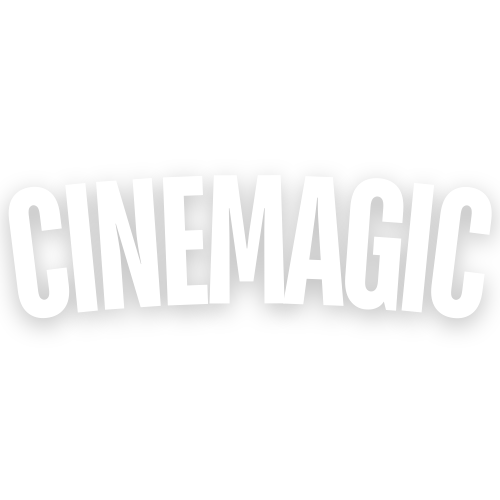
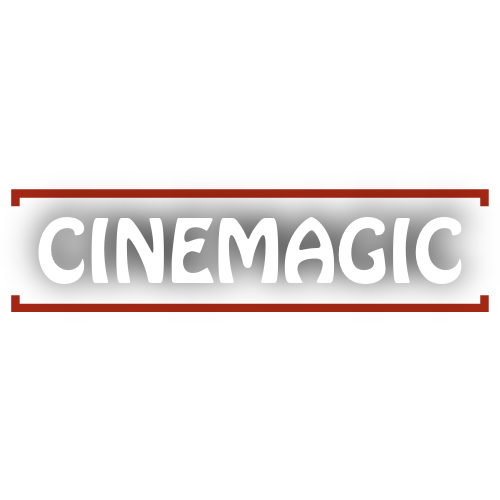
created secondary componet, fetched different movie data and created horizontal scrollable cards

Changed region(s): [[0.0, 0.36, 0.99, 0.66]]

diff --git a/src/components/VideoTitle.js b/src/components/VideoTitle.js
@@ -4,7 +4,7 @@ const VideoTitle = ({ title, overview }) => {
   const [string, setString] = useState(false);
 
   return (
-    <div className="px-24 space-y-4  w-screen  aspect-video   absolute text-white bg-gradient-to-tr from-black flex flex-col justify-center">
+    <div className=" space-y-4 pl-24 w-full aspect-video absolute text-white bg-gradient-to-tr from-black flex flex-col justify-center">
       <h1 className="text-4xl  font-bold">{title}</h1>
       <p className="w-4/12">
         {!string ? overview.slice(1, 150) + "..." : overview}
@@ -14,15 +14,22 @@ const VideoTitle = ({ title, overview }) => {
             setString(!string);
           }}
         >
-          {string ? 'Show Less' : 'More'}
+          {string ? "Show Less" : "More"}
         </button>
       </p>
-      <div className="">
-        <button className="bg-white py-3 px-10 text-black font-medium rounded hover:bg-opacity-90">
-          {`>`} Play
+      <div className="flex">
+        <button className="bg-white py-4 px-8 text-black font-medium rounded hover:bg-opacity-90">
+          <img
+            className="h-5 inline-block"
+            src={`${process.env.PUBLIC_URL}/play.png`}
+          />{" "}
+          Play
         </button>
-        <button className="bg-gray-500 py-3 px-10 font-medium rounded ml-4 hover:bg-opacity-95">
-          ! More info
+        <button className="bg-gray-500 py-4 px-4 font-medium rounded ml-4 flex items-center hover:bg-opacity-95">
+          <span className="bg-white text-black w-8 h-8 flex font-bold items-center justify-center rounded-full  mr-2">
+            i
+          </span>
+          More info
         </button>
       </div>
     </div>

diff --git a/src/components/SecondaryContainer.js b/src/components/SecondaryContainer.js
@@ -1,9 +1,24 @@
-import React from 'react'
+import React from "react";
+import MovieList from "./MovieList";
+import { useSelector } from "react-redux";
 
 const SecondaryContainer = () => {
+  const moviesData = useSelector((store) => store.movies);
+  const tvSeriesData = useSelector((store) => store.tvSeries);
   return (
-    <div>SecondaryContainer</div>
-  )
-}
+    <div className="bg-black">
+      <div className="-mt-52 pl-12 relative z-20">
+        <MovieList title={"Now Playing"} data={moviesData.nowPlaying} />
+        <MovieList title={"Popular"} data={moviesData.popular} />
+        <MovieList title={"Upcoming Movies"} data={moviesData.upcomingMovies} />
+        <MovieList title={"Top Rated"} data={moviesData.topRated} />
+        <MovieList title={"Airing Today"} data={tvSeriesData.airingToday} />
+        <MovieList title={"On The Air"} data={tvSeriesData.onTheAir} />
+        <MovieList title={"Popular TV Series"} data={tvSeriesData.popular} />
+        <MovieList title={"Top Rated TV Series"} data={tvSeriesData.topRated} />
+      </div>
+    </div>
+  );
+};
 
-export default SecondaryContainer
+export default SecondaryContainer;

diff --git a/src/components/Header.js b/src/components/Header.js
@@ -36,9 +36,10 @@ const Header = () => {
   }, []);
 
   return (
-    <div className="absolute flex justify-center py-6 px-10 bg-gradient-to-b from-black w-full h-24">
-      <div className="flex justify-between w-9/12">
-        <h1 className="text-white font-bold text-3xl">CINEMAGIC</h1>
+    <div className="absolute flex justify-center py-4 px-10 bg-gradient-to-b from-black w-full h-20 z-50 ">
+      <div className="flex justify-between w-9/12 items-center">
+        {/* <h1 className="text-[rgb(180,27,27)] font-bold text-4xl">CINEMAGIC</h1> */}
+        <img className="h-44" src={`${process.env.PUBLIC_URL}/CINEMAGIC.png`} />
         {user && (
           <div className="">
             <span className="font-bold text-white mr-4">
@@ -46,7 +47,7 @@ const Header = () => {
             </span>
             <button
               onClick={handleSignOut}
-              className="text-white bg-[#ff0000] px-4 py-2 rounded-lg cursor-pointer"
+              className="text-white bg-[rgb(121,37,37)] px-4 py-2 rounded-lg cursor-pointer"
             >
               Sign Out
             </button>

diff --git a/src/components/MainContainer.js b/src/components/MainContainer.js
@@ -6,7 +6,6 @@ import { useSelector } from "react-redux";
 const MainContainer = () => {
   // const [randomIndex, setRandomIndex] = useState(null);
   const movieData = useSelector((store) => store.movies?.nowPlaying);
-  const tvSeriesData = useSelector((store) => store.tvSeries?.airingToday);
 
   // useEffect(() => {
   //   if (movieData && movieData.length > 0) {
@@ -17,14 +16,11 @@ const MainContainer = () => {
 
   // if (!movieData || randomIndex === null) return;
   if (!movieData) return;
-  const randomMovieTrailer = movieData[3];
+  const randomMovieTrailer = movieData[0];
   const { overview, original_title, id } = randomMovieTrailer;
   return (
-    <div className="">
-      <VideoTitle
-        title={original_title}
-        overview={overview}
-      />
+    <div className="overflow-hidden">
+      <VideoTitle title={original_title} overview={overview} />
       <VideoBackground movieId={id} />
     </div>
   );

diff --git a/src/components/MovieList.js b/src/components/MovieList.js
@@ -1,9 +1,21 @@
-import React from 'react'
+import React from "react";
+import MovieCard from "./MovieCard";
 
-const MovieList = () => {
+const MovieList = ({ title, data }) => {
+  if (!data) return;
+
   return (
-    <div>MovieList</div>
-  )
-}
+    <div className="px-2 ">
+      <h1 className="text-2xl py-4 text-white">{title}</h1>
+      <div className="flex overflow-x-scroll scrollbar-hide">
+        <div className="flex">
+          {data.map((card) => (
+            <MovieCard key={card.id} posterPath={card.poster_path} />
+          ))}
+        </div>
+      </div>
+    </div>
+  );
+};
 
-export default MovieList
+export default MovieList;

diff --git a/tailwind.config.js b/tailwind.config.js
@@ -4,5 +4,19 @@ module.exports = {
   theme: {
     extend: {},
   },
-  plugins: [],
-}
+  plugins: [
+    function ({ addUtilities }) {
+      addUtilities({
+        ".scrollbar-hide": {
+          /* Hide scrollbar for Chrome, Safari and Opera */
+          "&::-webkit-scrollbar": {
+            display: "none",
+          },
+          /* Hide scrollbar for IE, Edge and Firefox */
+          "-ms-overflow-style": "none" /* IE and Edge */,
+          "scrollbar-width": "none" /* Firefox */,
+        },
+      });
+    },
+  ],
+};

diff --git a/src/components/VideoBackground.js b/src/components/VideoBackground.js
@@ -10,7 +10,7 @@ const VideoBackground = ({ movieId }) => {
   return (
     <div className="">
       <iframe
-        className="aspect-video w-screen"
+        className="aspect-video w-full"
         src={`https://www.youtube.com/embed/${trailerData?.key}?autoplay=1&mute=1&modestbranding=1&showinfo=0&controls=0&rel=0`}
         title="Deadpool &amp; Wolverine | Final Trailer | In Theaters July 26"
         allow="accelerometer; autoplay; encrypted-media; gyroscope; picture-in-picture"

diff --git a/src/components/MovieCard.js b/src/components/MovieCard.js
@@ -1,0 +1,15 @@
+import React from "react";
+import { IMAGE_URL } from "../utils/constants";
+
+const MovieCard = ({ posterPath }) => {
+  return (
+    <div className="w-56 p-4 ">
+      <img
+        className="cursor-pointer hover:p-4 transition-all"        alt="Movie Card"
+        src={`${IMAGE_URL}${posterPath}`}
+      />
+    </div>
+  );
+};
+
+export default MovieCard;

diff --git a/src/utils/constants.js b/src/utils/constants.js
@@ -20,6 +20,8 @@ export const API_OPTIONS = {
   },
 };
 
+export const IMAGE_URL = "https://image.tmdb.org/t/p/w300/";
+
 export const MOVIE_TV_LIST_API = {
   MOVIE_LIST: "https://api.themoviedb.org/3/movie/now_playing?page=1",
   TV_LIST: "https://api.themoviedb.org/3/tv/now_playing?page=1",

diff --git a/src/index.js b/src/index.js
@@ -5,7 +5,7 @@ import App from "./App";
 
 const root = ReactDOM.createRoot(document.getElementById("root"));
 root.render(
-  <React.StrictMode>
-    <App /> 
-  </React.StrictMode>
-); 
+  // <React.StrictMode>
+  // </React.StrictMode>
+  <App />
+);

diff --git a/src/App.js b/src/App.js
@@ -6,7 +6,9 @@ import appStore from "./utils/appStore";
 function App() {
   return (
     <Provider store={appStore}>
-      <Body />
+      <div className="m-0 p-0 box-border">
+        <Body />
+      </div>
     </Provider>
   );
 }
